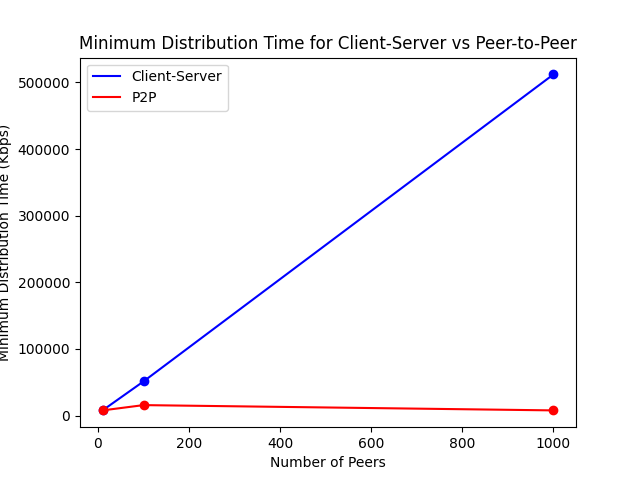
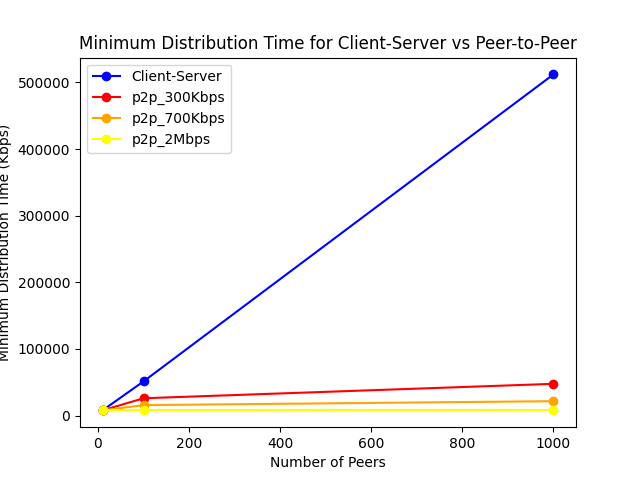
.

Changed region(s): [[0.1562, 0.7812, 0.875, 0.875], [0.125, 0.1562, 0.375, 0.3125]]

diff --git a/Labo2_TCP_Uitbreiding/Task3.py b/Labo2_TCP_Uitbreiding/Task3.py
@@ -9,18 +9,21 @@ def client_server(n):
     return max((n*F)/us, F/dmin)
 
 def peer_to_peer(n, u):
-    return max(F/us, F/dmin, (n*F)/(us + sum(u)))
+    return max(F/us, F/dmin, (n*F)/(us + (u*n)))
 
 if __name__ == '__main__':
     N = [10, 100, 1000]         #Number of peers
     u = [300, 700, 2048]        #upload rate op peers (kbps)
     cs = [client_server(n) for n in N]
-    p2p = [peer_to_peer(N[i], [u[i]] * N[i]) for i in range(len(N))]
+    p2p_300 = [peer_to_peer(N[i], u[0]) for i in range(len(N))]
+    p2p_700 = [peer_to_peer(N[i], u[1]) for i in range(len(N))]
+    p2p_2048 = [peer_to_peer(N[i], u[2]) for i in range(len(N))]
 
-    plt.plot(N, cs, 'bo')
-    plt.plot(N, cs, 'b', label='Client-Server')
-    plt.plot(N, p2p, 'ro')
-    plt.plot(N, p2p, 'r', label='P2P')
+    plt.plot(N, cs, color='b', marker='o', label='Client-Server')
+    plt.plot(N, p2p_300, color='r', marker='o', label='p2p_300Kbps')
+    plt.plot(N, p2p_700, 'orange', label='p2p_700Kbps', marker='o', color='orange')
+    plt.plot(N, p2p_2048, 'yellow', label='p2p_2Mbps', marker='o', color='yellow')
+    #plt.plot(N, p2p_2048, 'o')
     plt.legend(loc='upper left')
     plt.title('Minimum Distribution Time for Client-Server vs Peer-to-Peer')
     plt.xlabel('Number of Peers')
